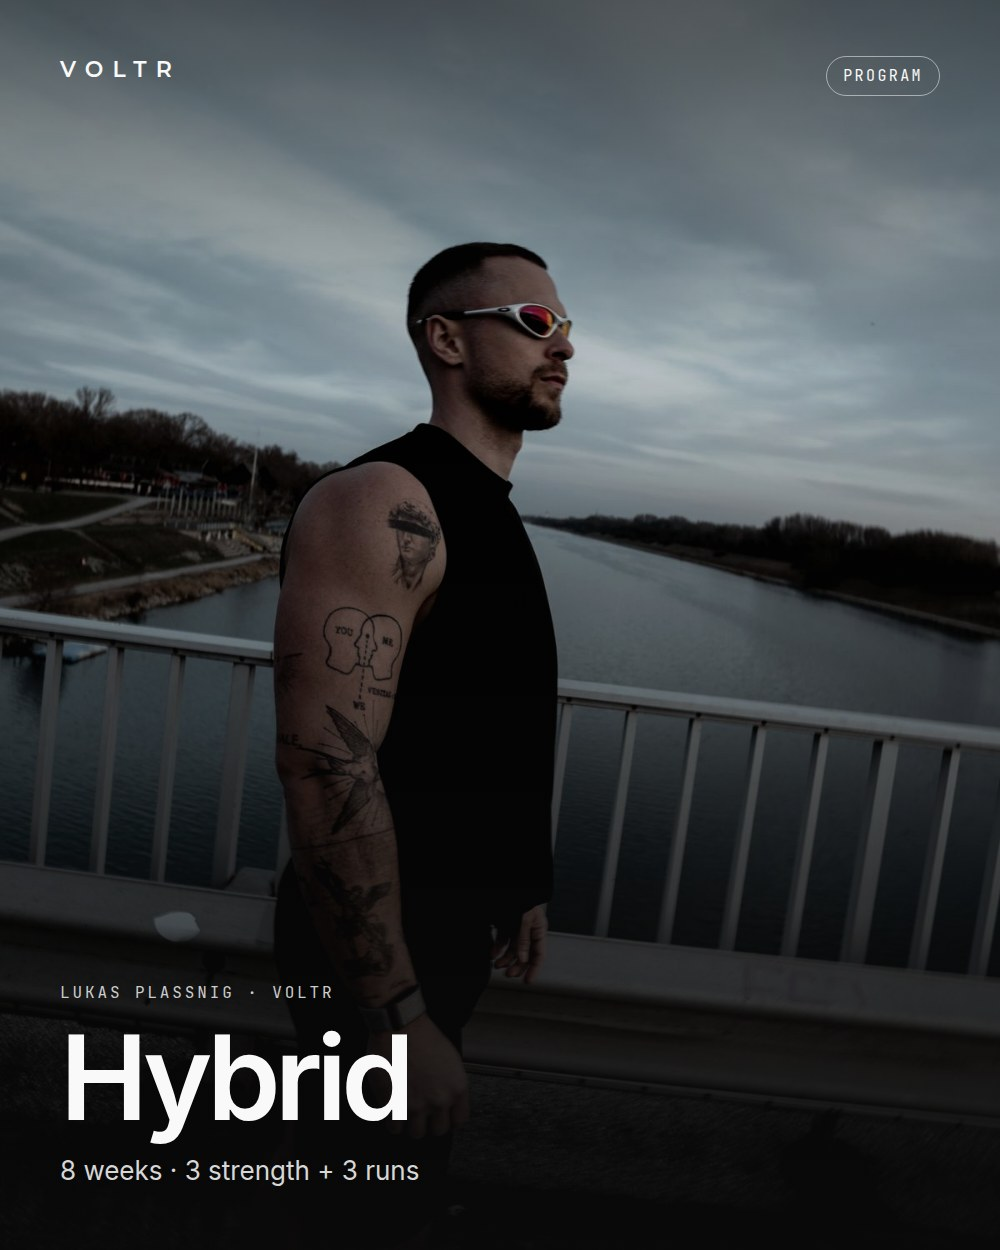
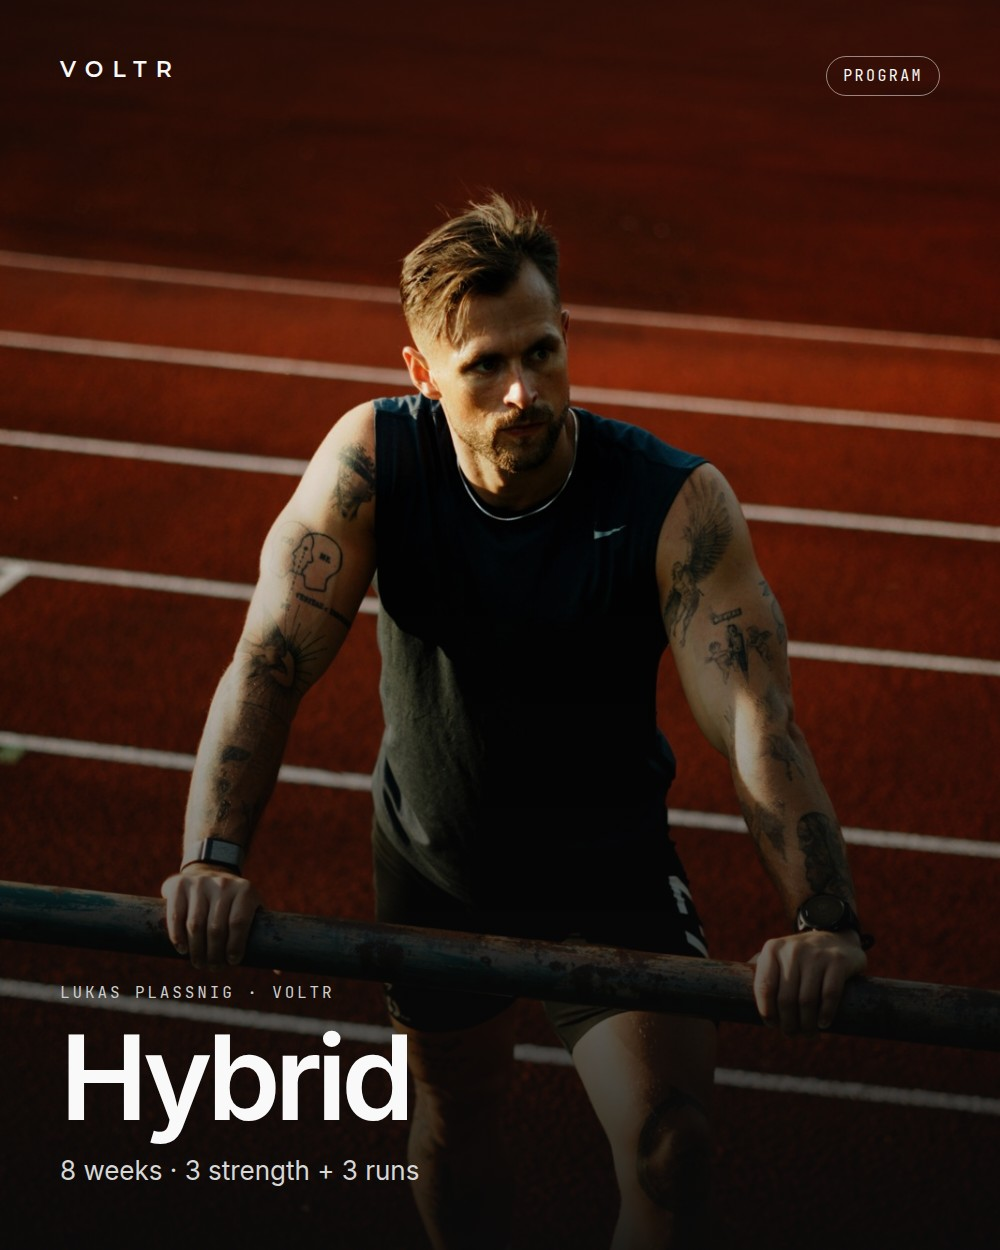
Add files via upload

diff --git a/assets/site.css b/assets/site.css
@@ -720,108 +720,44 @@ footer{background:var(--ink);color:#BABABA;padding:88px 0 40px}
 .case{grid-template-columns:minmax(0,520px) 1fr;gap:72px}
 @media(max-width:980px){.case{grid-template-columns:1fr}}
 
-/* ============ v8 · graphite theme (ref. thrstapp.com greys, VOLTR monochrome) ============ */
-:root{--bg:#101216;--panel:#181B20;--card:#1F2227;--card2:#262A30;--fg:#ECEDEF;--fg2:#A9ADB3;--line:#2A2E34;--line-d:#2A2E34;--mute:#80858D;--mute-d:#80858D;--paper:#101216;--paper2:#181B20}
-html,body{background:var(--bg)}
-body{color:var(--fg)}
-.dark{background:var(--bg)}
-.grey{background:var(--panel);margin:0 14px;border-radius:32px}
-section+section.grey,.grey+section{margin-top:0}
-/* hero inset like a framed card */
+/* ============ v8.1 · grey canvas + graphite panels (ref. thrstapp.com greys, VOLTR monochrome) ============ */
+:root{
+  --ink:#16181C;--ink2:#1E2126;--char:#262A30;--line-d:#30343A;
+  --paper:#ECEDEF;--paper2:#F7F7F8;--stone:#CFD2D6;--line:#D5D8DC;
+  --mute:#6B7078;--mute-d:#8E939A;--white:#FFFFFF;
+}
+html,body{background:var(--paper)}
+/* graphite blocks sit inset on the grey canvas, rounded like cards */
+.dark{margin:0 12px;border-radius:32px}
+.dark:has(+.dark){border-bottom-left-radius:0;border-bottom-right-radius:0}
+.dark+.dark{border-top-left-radius:0;border-top-right-radius:0}
+.grey{background:var(--paper2);margin:0 12px;border-radius:32px}
+section.dark+section,section.grey+section,section+section.dark,section+section.grey{margin-top:12px}
+.dark+.dark{margin-top:0}
 .hero{margin:12px 12px 0;border-radius:28px;min-height:calc(100svh - 24px)}
 nav.top{left:12px;right:12px;top:12px}
-nav.top.fixed{top:0;left:0;right:0;background:rgba(16,18,22,.86);border-bottom:1px solid var(--line);color:var(--fg)}
-nav.top.fixed .navcta{background:var(--fg);color:#0E0E0E;border-color:var(--fg)}
-/* type */
-.lede{color:var(--fg2)}
-.eyebrow{color:var(--mute)}
-.eyebrow .n{color:var(--fg)}
-.h2 em,.display em,.h3 em{color:var(--mute)}
-.about p,.case-rows p,.fit .row,.pstrip p,.faq details p,.dark .faq details p,.pf-quote p{color:var(--fg2)}
-.faq summary,.plinks b,.sign{color:var(--fg)}
-.about p{color:var(--fg2)}
-/* buttons: light on graphite */
-.btn{background:var(--fg);color:#0E0E0E;border-color:var(--fg)}
-.btn:hover{background:transparent;color:var(--fg);border-color:var(--fg)}
-.btn.light{background:var(--fg);color:#0E0E0E;border-color:var(--fg)}
-.btn.light:hover{background:transparent;color:var(--fg)}
-.btn.ghost,.btn.ghost.l{background:transparent;color:var(--fg);border-color:rgba(236,237,239,.35)}
-.btn.ghost:hover,.btn.ghost.l:hover{background:var(--fg);color:#0E0E0E}
-/* marquee */
-.marquee{background:var(--bg);border-color:var(--line)}
-.marquee span{color:var(--fg)}
-/* proof slideshow */
-.pnav button,.cc-nav button{background:var(--card);color:var(--fg);border-color:var(--line)}
-.pnav button:hover,.cc-nav button:hover{background:var(--fg);color:#0E0E0E;border-color:var(--fg)}
-.pf{border-radius:20px}
-.pf-quote{background:var(--card);border-color:var(--line)}
-.pf-quote p{color:var(--fg)}
-.pf-stat{background-color:var(--card2)}
-/* comparison: graphite cards, VOLTR column light */
-.vs-col{background:var(--card);border-color:var(--line);border-radius:20px}
-.vs-col li{color:#8E9298;border-color:var(--line)}
+nav.top.fixed{top:0;left:0;right:0;background:rgba(236,237,239,.9);-webkit-backdrop-filter:blur(14px);backdrop-filter:blur(14px)}
+.marquee{background:var(--paper)}
+/* cards on light sections: white on grey, softer radius */
+.pf,.cc-track,.film,.reel-stage,.weekcard,.pcard,.pcardx,.cmp,.sample,.gal .main,.about .stack img{border-radius:20px}
+.pf-quote,.vs-col:not(.vs-main){background:var(--white)}
+.vs-col{border-radius:20px}
 .vs-col:first-child{border-radius:20px 0 0 20px}
 .vs-col:last-child{border-radius:0 20px 20px 0}
-.vs-main{background:#F2F2F3;color:#0E0E0E;border-color:#F2F2F3;border-radius:22px;box-shadow:0 30px 80px rgba(0,0,0,.45)}
-.vs-main h3{color:#0E0E0E}
-.vs-main h3 small{color:#6F737A}
-.vs-main li{color:#0E0E0E;border-color:#DCDDE0}
-.vs-main .ci.yes{background:#0E0E0E;color:#fff}
-.ci.no{border-color:#3A3E45;color:#6E737A}
-.ci.mid{border-color:#5A5F66;background:linear-gradient(90deg,#5A5F66 50%,transparent 50%)}
-/* method / week card / film / reel */
-.weekcard{border-radius:20px}
-.film{border-radius:24px}
-.reel-stage{border-radius:24px}
-.reel-list,.reel-list li{border-color:var(--line)}
-/* case study + about panels */
-.cc-track{border-radius:20px}
-.case-rows,.case-rows div{border-color:var(--line)}
-.about .stack img{border-radius:24px}
-/* offer */
-.offer,.fa,.promise{border-color:var(--line);background:var(--panel)}
+.vs-main{border-radius:22px;box-shadow:0 30px 70px rgba(22,24,28,.28)}
 .offer{border-radius:24px 24px 0 0;overflow:hidden}
 .promise{border-radius:0 0 24px 24px}
-.incl li{border-color:var(--line)}
-/* fit / faq / plinks */
-.fit,.fit>div+div,.fit .row{border-color:var(--line)}
-.faq details,.faq details:first-child{border-color:var(--line)}
-.plinks,.plinks a{border-color:var(--line)}
-/* book + footer */
 .calwrap{border-radius:20px;overflow:hidden}
-footer{background:var(--bg);border-top:1px solid var(--line)}
+footer{margin:12px 12px 12px;border-radius:32px}
 @media(max-width:980px){
-  .grey{margin:0 8px;border-radius:24px}
+  .dark,.grey{margin-left:8px;margin-right:8px;border-radius:24px}
   .hero{margin:8px 8px 0;border-radius:22px;min-height:calc(100svh - 16px)}
   nav.top{left:8px;right:8px;top:8px}
-  .vs-col:first-child,.vs-col:last-child,.vs-col{border-radius:16px}
+  .vs-col,.vs-col:first-child,.vs-col:last-child{border-radius:16px}
+  footer{margin:8px;border-radius:24px}
 }
 @media(max-width:700px){
-  .grey{margin:0 6px;border-radius:20px}
+  .dark,.grey{margin-left:6px;margin-right:6px;border-radius:20px}
   .hero{margin:6px 6px 0;border-radius:18px}
-  .places.rail .media{border-radius:0}
+  footer{margin:6px;border-radius:20px}
 }
-/* v8 · graphite overrides for program, shop and access pages */
-.pcard,.pcardx,.cmp,.deliver,.weekgrid div,.sample,.dl a,.plan,.bundle,.gal .thumbs button{background:var(--card);border-color:var(--line);color:var(--fg)}
-.pcard,.pcardx,.cmp,.sample{border-radius:20px}
-.pcard p,.pcardx p,.plan p,.bundle p{color:var(--fg2)}
-.pcard:hover,.pcardx:hover{box-shadow:0 22px 50px rgba(0,0,0,.45)}
-.pcard .ico{background:var(--fg);color:#0E0E0E}
-.pcardx .row b,.bundle .price,.plan h3,.dl b{color:var(--fg)}
-.plans{background:var(--line);border-color:var(--line)}
-.cmp-row{border-color:var(--line)}
-.cmp .no,.cmp .mid{color:#7C8188}
-.cmp .v{background:#F2F2F3;color:#0E0E0E}
-.cmp-row.head .v{color:#0E0E0E}
-.weekgrid div.on{background:#F2F2F3;color:#0E0E0E;border-color:#F2F2F3}
-.weekgrid div.on b{color:#6F737A}
-.sample:after{background:linear-gradient(transparent,var(--bg) 85%)}
-.dl a:hover,.gal .thumbs button.on,.gal .thumbs button:hover{border-color:var(--fg)}
-.dl .ft{background:var(--fg);color:#0E0E0E}
-.msg.out{background:var(--fg);color:#0E0E0E}
-.wc-head .tag{background:var(--fg);color:#0E0E0E}
-.gal .main{border-radius:20px}
-.bundle>div+div,.plan ul,.plan li{border-color:var(--line)}
-.buy .lede,.pgrid{color:var(--fg)!important}
-.buy .meta span{border-color:var(--line);color:var(--fg2)}
-.calwrap{background:var(--card)}

diff --git a/coaching/index.html b/coaching/index.html
@@ -323,7 +323,7 @@
     <p class="micro rv" style="margin-top:28px">Coaching is &euro;250 / month with a three-month minimum. Please book only if that works for you.</p>
   </div>
   <div class="calwrap rv">
-    <div class="calendly-inline-widget" data-url="https://calendly.com/training-voltr/30min?hide_gdpr_banner=1&background_color=1f2227&text_color=ecedef&primary_color=ecedef"></div>
+    <div class="calendly-inline-widget" data-url="https://calendly.com/training-voltr/30min?hide_gdpr_banner=1&background_color=ffffff&text_color=16181c&primary_color=16181c"></div>
   </div>
 </div></section>
 

diff --git a/index.html b/index.html
@@ -328,7 +328,7 @@
     <p class="micro rv" style="margin-top:28px">Coaching is &euro;250 / month with a three-month minimum. Please book only if that works for you.</p>
   </div>
   <div class="calwrap rv">
-    <div class="calendly-inline-widget" data-url="https://calendly.com/training-voltr/30min?hide_gdpr_banner=1&background_color=1f2227&text_color=ecedef&primary_color=ecedef"></div>
+    <div class="calendly-inline-widget" data-url="https://calendly.com/training-voltr/30min?hide_gdpr_banner=1&background_color=ffffff&text_color=16181c&primary_color=16181c"></div>
   </div>
 </div></section>
 
